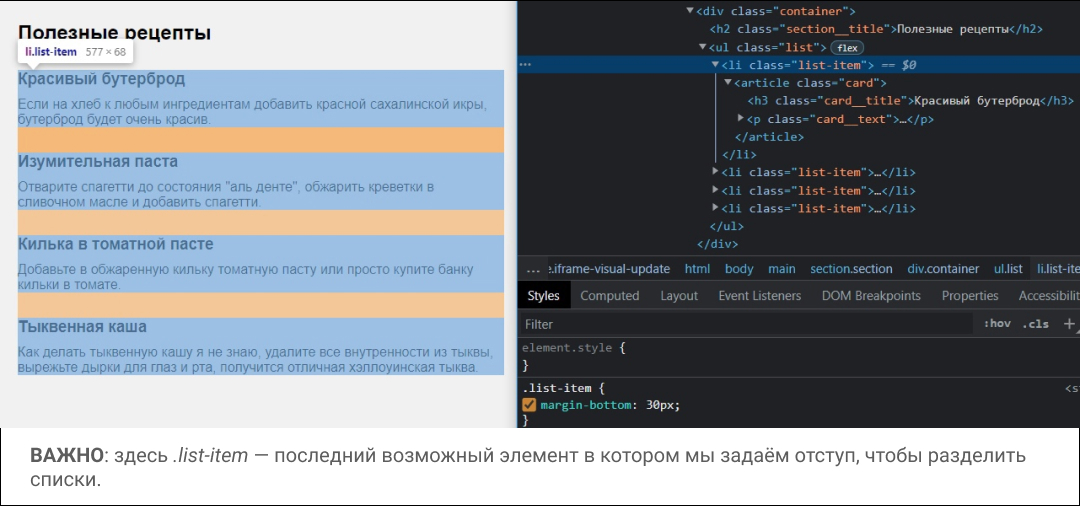
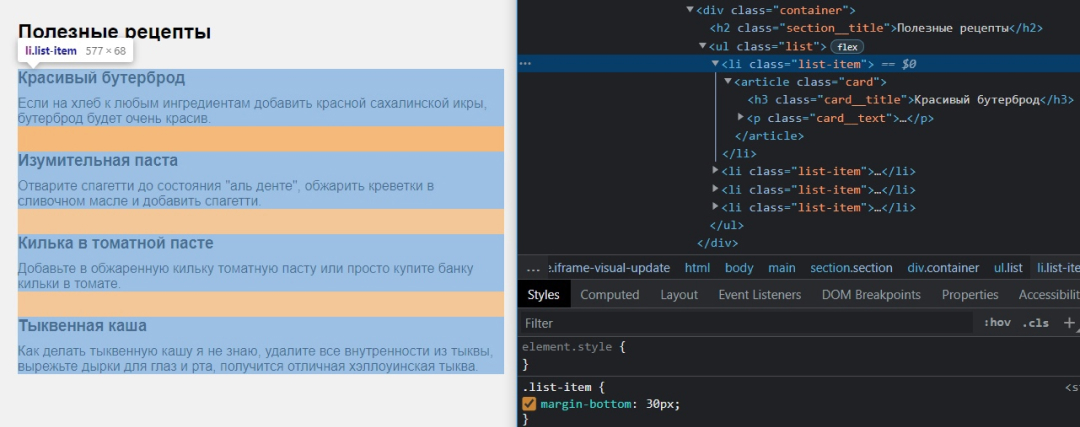
2 modul, finish work

diff --git a/index.html b/index.html
@@ -34,7 +34,7 @@
     </section>
 
     <div class="inner">
-      <section class="content">
+      <nav class="content">
         <div class="container">
           <h2 class="content__title title">Содержание:</h2>
           <ol class="content__list">
@@ -50,7 +50,7 @@
             </li>
           </ol>
         </div>
-      </section>
+      </nav>
     </div>
 
     <section class="indent-one" id="indent-one">
@@ -112,7 +112,13 @@
         <img class="indent-two__img" src="./img/indent-two-1.jpg" alt="Изображен список DOM-дерева">
         <img class="indent-two__img" src="./img/indent-two-2.jpg" alt="Изображен список DOM-дерева">
         <p class="indent-two__text text">Отступ делают за счёт соседних элементов, а не дочерних:</p>
-        <img class="indent-two__img" src="/img/indent-two-3.jpg" alt="Изображен список DOM-дерева">
+        <div class="indent-two__block">
+          <img class="indent-two__block--img" src="/img/indent-two-3.jpg" alt="Изображен список DOM-дерева">
+          <p class="indent-two__block--text text"> <strong>ВАЖНО</strong>: здесь <span>.list-item</span> — последний
+            возможный
+            элемент в котором
+            мы задаём отступ, чтобы разделить списки.</p>
+        </div>
         <p class="indent-two__text text">Казалось бы, можно задать отступ параграфу <span>&lt;p&gt;</span>, либо
           обёртке
           <span>&lt;article&gt;</span> для достижения той же цели. Внешне останется все точно также, но так делать не

diff --git a/css/ident-one.css b/css/ident-one.css
@@ -37,6 +37,20 @@ span {
 	padding-bottom: 25px;
 }
 
+.indent-two__block {
+	border: 1px solid #000;
+	margin-bottom: 30px;
+}
+
+.indent-two__block--text {
+	padding: 15px 30px;
+	color: #5e5e5e;
+}
+
+.indent-two__block--img {
+	margin-bottom: 0;
+}
+
 .indent-two__img {
 	display: block;
 	margin: auto;

diff --git a/css/sum.css b/css/sum.css
@@ -6,7 +6,9 @@
 	margin-bottom: 50px;
 	text-align: left;
 }
-
+.sum-up__list {
+	margin-bottom: 30px;
+}
 .sum-up__link {
 	color: inherit;
 	text-decoration: none;
